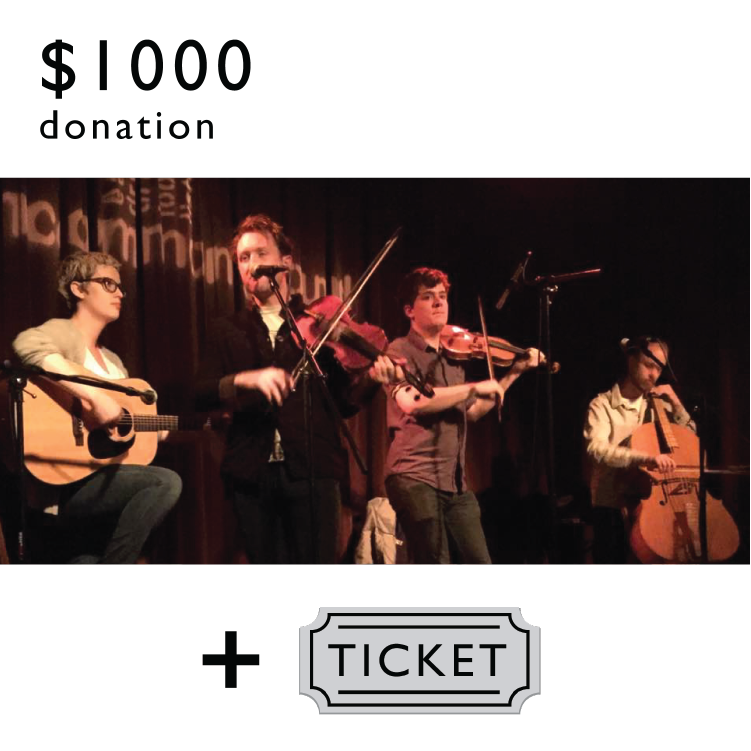
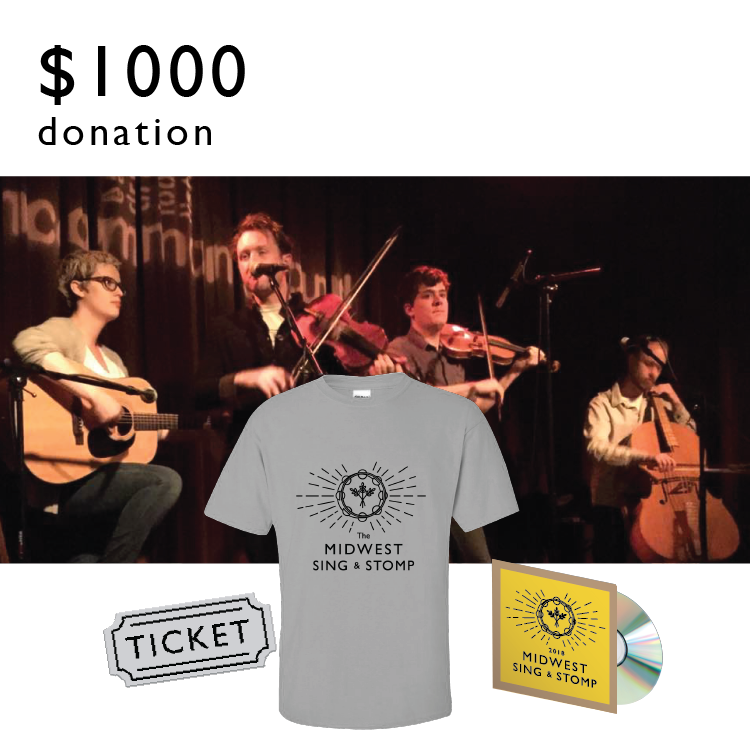
Rejigger perks

diff --git a/perk50/index.html b/perk50/index.html
@@ -1,6 +1,6 @@
 ---
 layout: perk
-image: /img/perk40full.png
+image: /img/perk50full.png
 ---
 <h1 class="text-center">Ticket, T-Shirt, and CD Package</h1>
 
@@ -9,19 +9,20 @@ Get a 2018 Sing &amp; Stomp Ticket, a 2018 CD, <em>and</em> a t-shirt bundled to
 </p>
 
 <div class="donate-button">
+
 <form action="https://www.paypal.com/cgi-bin/webscr" method="post" target="_top">
 <input type="hidden" name="cmd" value="_s-xclick">
 <input type="hidden" name="hosted_button_id" value="J7EUMK29L3DA2">
 <table>
-<tr><td><input type="hidden" name="on0" value="Delivery & Sizes">Delivery & Sizes</td></tr><tr><td><select name="os0">
-	<option value="Small">Small $40.00 USD</option>
-	<option value="Medium">Medium $40.00 USD</option>
-	<option value="Large">Large $40.00 USD</option>
-	<option value="X-Large">X-Large $40.00 USD</option>
+<tr><td><input type="hidden" name="on0" value="Delivery & Sizes">Sizes</td></tr><tr><td><select name="os0">
+	<option value="Small">Small $50.00 USD</option>
+	<option value="Medium">Medium $50.00 USD</option>
+	<option value="Large">Large $50.00 USD</option>
+	<option value="X-Large">X-Large $50.00 USD</option>
 </select> </td></tr>
 </table>
 <input type="hidden" name="currency_code" value="USD">
-<input class="donate-image" type="image" src="http://singandstomp.com/img/donate40.png" border="0" name="submit" alt="PayPal - The safer, easier way to pay online!">
+<input class="donate-image" type="image" src="http://singandstomp.com/img/donate50.png" border="0" name="submit" alt="PayPal - The safer, easier way to pay online!">
 <img alt="" border="0" src="https://www.paypalobjects.com/en_US/i/scr/pixel.gif" width="1" height="1">
 </form>
 </div>

diff --git a/perk100/index.html b/perk100/index.html
@@ -2,20 +2,20 @@
 layout: perk
 image: /img/perk100full.png
 ---
-<h1 class="text-center">The Gold Package</h1>
+<h1 class="text-center">Couples Package: Two Tickets and T-Shirts, and a Two CDs</h1>
 
 <p>
-$100 donors will get two Sing &amp; Stomp tickets along with this special
-6-album collection from Chicago’s thriving folk music scene. Experience the
-wide range of exciting music happening in our city with albums from Can I Get
-an Amen, Glass Mountain, Spitzer Space Telescope, Old Lazarus’ Harp, Tim &amp;
-Jeremy, and of course our Midwest Sing &amp; Stomp compilation CD.
+Get two 2018 Sing &amp; Stomp Tickets, two t-shirts, <em>and</em> both a 2017 and a 2018 CD! (Pickup only)
 </p>
 
 <div class="donate-button">
+
 <form action="https://www.paypal.com/cgi-bin/webscr" method="post" target="_top">
 <input type="hidden" name="cmd" value="_s-xclick">
-<input type="hidden" name="hosted_button_id" value="BQJNSEURZWPYJ">
+<input type="hidden" name="hosted_button_id" value="JGSLB3Z7BP67J">
+<table>
+<tr><td><input type="hidden" name="on0" value="Enter TWO sizes (S, M, L, XL)">Enter TWO sizes (S, M, L, XL)</td></tr><tr><td><input type="text" name="os0" maxlength="200"></td></tr>
+</table>
 <input class="donate-image" type="image" src="http://singandstomp.com/img/donate100.png" border="0" name="submit" alt="PayPal - The safer, easier way to pay online!">
 <img alt="" border="0" src="https://www.paypalobjects.com/en_US/i/scr/pixel.gif" width="1" height="1">
 </form>

diff --git a/index.html b/index.html
@@ -7,9 +7,12 @@ layout: default
 </figure>
 
 <div class="tagline text-center">
-  September 1st at <a href="https://goo.gl/maps/97gt4JzwsSA2" target="_blank">Second Unitarian Church</a>
+  <span class="title-caps the-date">September 1st</span>
+  <br>
+  <span class="title-caps">at <a href="https://goo.gl/maps/97gt4JzwsSA2" target="_blank">Second Unitarian Church</a></span>
   <br>
   656 W Barry Ave., Chicago
+  <br>
   <br>
   Featuring:
   <br>
@@ -33,7 +36,7 @@ layout: default
 {% include perk.html target="perk15shirt" image="img/perk15shirt.png" description="The 2018 Midwest Sing & Stomp T-Shirt"%}
 {% include perk.html target="perk25" image="img/perk25.png" description="2018 CD and a T-Shirt"%}
 {% include perk.html target="perk30" image="img/perk30.png" description="Ticket and a T-Shirt"%}
-{% include perk.html target="perk40" image="img/perk40.png" description="Tickets, 2018 CD, and a T-Shirt"%}
-{% include perk.html target="perk60" image="img/perk60.png" description="Couples package: Two tickets and t-shirts + a 2018 CD"%}
+{% include perk.html target="perk50" image="img/perk50.png" description="Tickets, 2018 CD, and a T-Shirt"%}
+{% include perk.html target="perk100" image="img/perk100.png" description="Couples Package: Two tickets, two t-shirts, two different CDs"%}
 {% include perk.html target="perk1000" image="img/perk1000.png" description="Personal House Concert"%}
 </div>

diff --git a/perk1000/index.html b/perk1000/index.html
@@ -11,10 +11,10 @@ featuring two of our acts: <a href="http://sstandmareva.com"
 target="_blank">Spitzer &amp; Mareva</a> and <a href="http://timandjeremy.com"
 target="_blank">Tim Macdonald &amp; Jeremy Ward</a>. We would love to say thank
 you in person with a full show of old-time tunes, ballads, scottish tunes, and
-blues for you and your friends. We'll also include two tickets to the Sing
-&amp; Stomp so that you can enjoy all the other music and dancing. This massive
-donation is humbling beyond words and would secure
-your name in the Midwest Sing &amp; Stomp Hall of Fame.
+blues for you and your friends. We'll also include two Sing &amp; Stomp
+tickets, t-shirts, and CDs so that you can enjoy all the other music and
+dancing. This massive donation is humbling beyond words and would secure your
+name in the Midwest Sing &amp; Stomp Hall of Fame.
 </p>
 
 <p><small>(Travel not included.)</small></p>

diff --git a/_sass/_style.scss b/_sass/_style.scss
@@ -164,3 +164,11 @@ a {
     font-weight: normal;
   }
 }
+
+.title-caps {
+  text-transform: uppercase;
+}
+
+.the-date {
+  font-size: 32px;
+}
